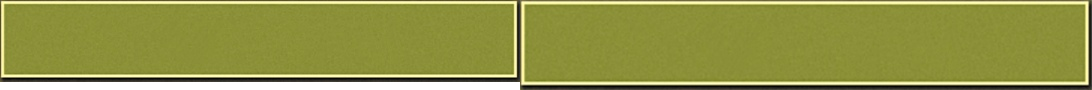
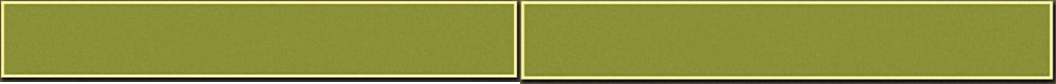
Main menu updated

Changed region(s): [[0.0, 0.0, 0.5, 1.0]]

diff --git a/core/src/com/papich/game/MainMenuScreen.java b/core/src/com/papich/game/MainMenuScreen.java
@@ -11,8 +11,11 @@ import com.badlogic.gdx.graphics.g2d.BitmapFont;
 import com.badlogic.gdx.graphics.g2d.SpriteBatch;
 import com.badlogic.gdx.graphics.g2d.TextureAtlas;
 import com.badlogic.gdx.graphics.g2d.freetype.FreeTypeFontGenerator;
+import com.badlogic.gdx.math.Vector2;
+import com.badlogic.gdx.math.Vector3;
 import com.badlogic.gdx.scenes.scene2d.InputEvent;
 import com.badlogic.gdx.scenes.scene2d.Stage;
+import com.badlogic.gdx.scenes.scene2d.actions.Actions;
 import com.badlogic.gdx.scenes.scene2d.ui.Skin;
 import com.badlogic.gdx.scenes.scene2d.ui.Table;
 import com.badlogic.gdx.scenes.scene2d.ui.TextButton;
@@ -25,6 +28,7 @@ import com.badlogic.gdx.utils.viewport.Viewport;
 public class MainMenuScreen implements Screen {
 
     TextButton.TextButtonStyle textButtonStyle;
+    TextButton.TextButtonStyle textButtonStyle2;
     BitmapFont font;
     private SpriteBatch batch;
     protected Stage stage;
@@ -33,17 +37,20 @@ public class MainMenuScreen implements Screen {
     private TextureAtlas atlas;
     protected Skin skin;
     public Texture texture;
-
+    Vector3 touchPos = new Vector3();
+    Vector2 touchPos2D = new Vector2();
+    public TextButton playButton;
+    public TextButton exitButton;
     public MainMenuScreen()
 
     {
         atlas = new TextureAtlas("skin.atlas");
         texture = new Texture(Gdx.files.internal("MainMenu.png"));
         skin = new Skin();
-        FreeTypeFontGenerator generator = new FreeTypeFontGenerator(Gdx.files.internal("myFont.ttf"));
+        FreeTypeFontGenerator generator = new FreeTypeFontGenerator(Gdx.files.internal("Garamond Retrospective SSi Italic.ttf"));
         FreeTypeFontGenerator.FreeTypeFontParameter parameter = new FreeTypeFontGenerator.FreeTypeFontParameter();
         parameter.size=30;
-        Color color = Color.YELLOW;
+        Color color = new Color(0xe6e682AA);
         parameter.color = color;
         font = generator.generateFont(parameter);
         font.setColor(Color.BLACK);
@@ -51,12 +58,16 @@ public class MainMenuScreen implements Screen {
         textButtonStyle = new TextButton.TextButtonStyle();
         textButtonStyle.font = font;
         textButtonStyle.up = skin.getDrawable("button");
+        textButtonStyle2 = new TextButton.TextButtonStyle();
+        textButtonStyle2.font = font;
+        textButtonStyle2.up = skin.getDrawable("buttonActive");
 
 
         batch = new SpriteBatch();
         camera = new OrthographicCamera();
         viewport = new FitViewport(1920, 1080, camera);
         viewport.apply();
+
 
         stage = new Stage(viewport, batch);
     }
@@ -66,23 +77,23 @@ public class MainMenuScreen implements Screen {
     public void show() {
         Gdx.input.setInputProcessor(stage);
 
-        Table mainTable = new Table();
-        mainTable.setFillParent(true);
-        mainTable.top();
-        TextButton playButton = new TextButton("PLAY", textButtonStyle);
-        TextButton optionsButton = new TextButton("SETTINGS", textButtonStyle);
-        TextButton exitButton = new TextButton("EXIT", textButtonStyle);
+        Table table1 = new Table();
+        Table table2 = new Table();
+        table2.setFillParent(true);
+        table2.top();
+        table1.setFillParent(true);
+        table1.top();
+
+
+        playButton = new TextButton("PLAY", textButtonStyle);
+        exitButton = new TextButton("EXIT", textButtonStyle);
+
+
 
         playButton.addListener(new ClickListener(){
             @Override
             public void clicked(InputEvent event, float x, float y) {
                 ((Game)Gdx.app.getApplicationListener()).setScreen(new ChoiceGameScreen());
-            }
-        });
-        optionsButton.addListener(new ClickListener(){
-            @Override
-            public void clicked(InputEvent event, float x, float y) {
-                ((Game)Gdx.app.getApplicationListener()).setScreen(new SettingsScreen());
             }
         });
         exitButton.addListener(new ClickListener(){
@@ -92,14 +103,16 @@ public class MainMenuScreen implements Screen {
             }
         });
 
-        mainTable.add(playButton);
-        mainTable.center();
-        mainTable.row();
-        mainTable.add(optionsButton);
-        mainTable.row();
-        mainTable.add(exitButton);
+        table1.add(playButton);
+        table1.center();
+        table1.row();
 
-        stage.addActor(mainTable);
+
+        table2.add(exitButton);
+        table2.top();
+        table2.row();
+        stage.addActor(table1);
+        stage.addActor(table2);
     }
 
     @Override
@@ -107,20 +120,43 @@ public class MainMenuScreen implements Screen {
         Gdx.graphics.setFullscreenMode(Gdx.graphics.getDisplayMode());
         Gdx.gl.glClearColor(.1f, .12f, .16f, 1);
         Gdx.gl.glClear(GL20.GL_COLOR_BUFFER_BIT);
-
         camera.update();
+        touchPos.x = Gdx.input.getX();
+        touchPos.y = Gdx.input.getY();
+        touchPos.z = 0;
+        camera.unproject(touchPos);
+        touchPos2D.x = touchPos.x;
+        touchPos2D.y = touchPos.y;
         batch.begin();
         batch.draw(texture, 0, 0);
         batch.end();
-
+        stage.getWidth();
         stage.act();
         stage.draw();
+        if(touchPos2D.x > (1920/2)-260 && touchPos2D.x < (1920/2)+260  && touchPos2D.y > 560  && touchPos2D.y < 680){
+             //если булевая переменная приняла значение true то прячем кнопку
+            playButton.setStyle(textButtonStyle2);
+
+        }
+        if(touchPos2D.x > (1920/2)-260 && touchPos2D.x < (1920/2)+260  && touchPos2D.y > 560  && touchPos2D.y < 680){
+            //если булевая переменная приняла значение true то прячем кнопку
+            playButton.setStyle(textButtonStyle2);
+
+        }
+        else{
+            playButton.setStyle(textButtonStyle);
+        }
+
+
+
+
+
     }
 
     @Override
     public void resize(int width, int height) {
         viewport.update(width, height);
-        camera.position.set(camera.viewportWidth / 2, camera.viewportHeight /2, 0);
+        camera.position.set(1920/2, 1080/2, 0);
         camera.update();
     }
 
